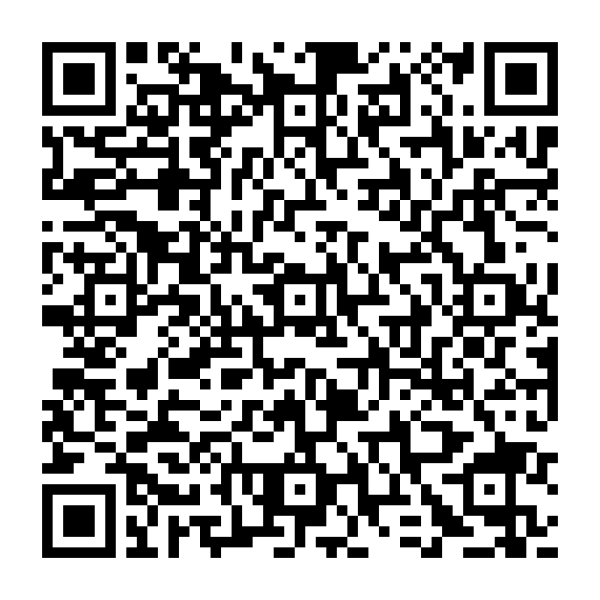
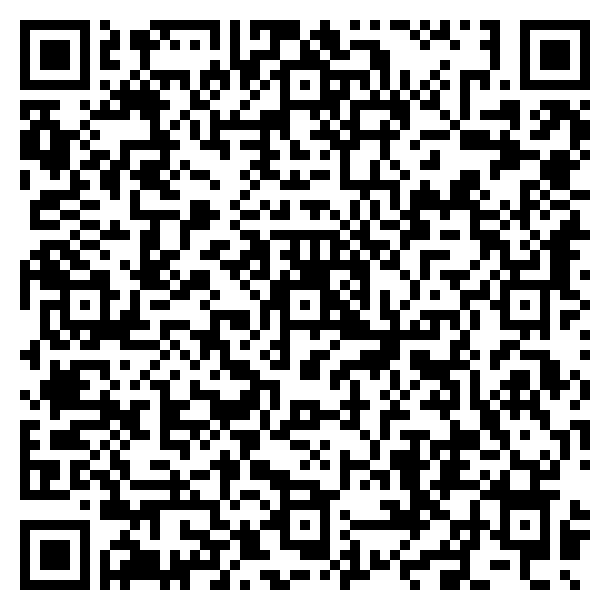
123

diff --git a/save/QR/createQR.js b/save/QR/createQR.js
@@ -1,64 +1,29 @@
-// npm i qrcode-generator
+// npm i qrcode
 const QRCode = require('qrcode');
-// npm i qrcode-generator
-const QRgenerator = require('qrcode-generator');
-// npm install qr-code-styling
-const QRCodeStyling = require("qr-code-styling");
-const sharp = require("sharp");
-const path = require('path');
-// QR 코드에 넣을 데이터
-// 전화번호 설정
-const phoneNumber = '01031277711';
-const telLink = 'tel:01031277711';
-// URL 
-const URL1 = 'https://nanonix.help?tn=1';
-const URL2 = 'https://nanonix.help?tn=2';
-// QR 코드 옵션 설정
-// 단순 생성
-// const qrCodeOptions = {
-//   errorCorrectionLevel: 'H',
-//   type: 'image/png',
-//   quality: 1,
-//   margin: 1,
-//   width: 500,
-//   color: {
-//     dark: '#000000FF',
-//     light: '#FFFFFFFF',
-//   },
-// };
 
-// // __dirname을 사용하여 현재 폴더에 QR 코드 파일 생성
-// const filePath = path.join(__dirname, "QR.png");
+// 1) QR에 담을 데이터
+const data = '101-ABCDEFGHIJKLMNOPQRSTUVWXYZ/2,'
++ "101-ABCDEFGHIJKLMNOPQRSTUVWXYZ/2,"
++ "101-ABCDEFGHIJKLMNOPQRSTUVWXYZ/2,"
++ "101-ABCDEFGHIJKLMNOPQRSTUVWXYZ/2,"
++ "101-ABCDEFGHIJKLMNOPQRSTUVWXYZ/2,"
++ "101-ABCDEFGHIJKLMNOPQRSTUVWXYZ/2,"
++ "101-ABCDEFGHIJKLMNOPQRSTUVWXYZ/2,"
++ "101-ABCDEFGHIJKLMNOPQRSTUVWXYZ/2,"
 
-// // URL1을 QR 코드 데이터로 사용하여 파일 생성
-// QRCode.toFile(filePath, URL1, qrCodeOptions, (err) => {
-//   if (err) {
-//     console.error('QR 코드 생성 중 오류가 발생했습니다:', err);
-//   } else {
-//     console.log('QR 코드가 성공적으로 생성되었습니다:', filePath);
-//   }
-// });
-// ==================================================================
-// ==================================================================
-// QR 코드 생성 (SVG 형식)
-// L > 
-let qrCode = QRgenerator(8, 'M'); // cellSize, 복원률, 낮을수록 도트가 크고 적은데이터가 들어감
-qrCode.addData(telLink);
-qrCode.make();
-let qrSvg = qrCode.createSvgTag({});
+// 2) 옵션 설정
+const options = {
+  errorCorrectionLevel: 'L',  // L | M | Q | H
+  version: 10,                 // 1~40 (작을수록 단순, 클수록 복잡)
+  margin: 2,                  // 테두리 빈 칸(module 개수 단위)
+  scale: 10                    // 각 모듈(정사각형) 픽셀 크기
+};
 
-// SVG를 PNG로 변환하고 너비 지정하여 파일로 저장
-const svgBuffer = Buffer.from(qrSvg);
-const outputPath = './QR.png'; // PNG 파일 이름
-const width = 600; // 원하는 이미지의 너비 (픽셀 단위)
-
-sharp(svgBuffer)
-  .png()
-  .resize(width) // 너비 지정, 높이는 자동 조정
-  .toFile(outputPath, (err, info) => {
-    if (err) {
-      console.error('QR 코드 생성 중 오류가 발생했습니다:', err);
-    } else {
-      console.log(`QR 코드가 ${width}px 너비로 PNG 형식으로 성공적으로 생성되었습니다.`, info);
-    }
+// 3) 파일로 바로 저장
+QRCode.toFile('QR.png', data, options)
+  .then(() => {
+    console.log('✅ QR.png 생성 완료');
+  })
+  .catch(err => {
+    console.error('❌ 생성 오류:', err);
   });

diff --git a/save/라즈베리파이/라즈베리파이.html b/save/라즈베리파이/라즈베리파이.html
@@ -3,36 +3,6 @@
 2023/05/03파일
 해당 경로로 이동해서 2.6GB짜리 다운로드
 
-<라즈베리파이 한국어 설정>
-    안하면 한국어들이 전부 □로 출력됨
-    sudo raspi-config
-    "5 Localisation Options" > "L1 Locale"
-    ko_KR.UTF-8 UTF-8을 선택하고, Ok를 누릅니다.
-    그 다음 그리고 설정할 기본 로캘로 ko_KR.UTF-8을 선택하고 다시 Ok를 누릅니다.
-    raspi-config를 종료
-
-    <기본 로캘 설정에 ko_KR.UTF-8이 없다면>
-    locale -a
-        여기에 ko_KR.UTF-8이 있는지 확인, 없다면
-    sudo nano /etc/locale.gen
-        입력하여 ko_KR.UTF-8이 주석처리 되어있나 확인하고
-        주석처리 되어있을시 주석해제
-    sudo locale-gen
-        한국-한국 선택
-    sudo update-locale LANG=ko_KR.UTF-8
-
-    글꼴 설치 -> 설치    한글해야 네모가 출력되지 않음
-    sudo apt-get install -y fonts-nanum*
-    
-    한글 입력기 설치
-    sudo apt-get install -y ibus ibus-hangul
-    ibus를 기본 입력방법으로 설정
-    im-config -n ibus
-    입력기에 한글 추가하기
-    ibus-setup => input Method => Add => Korean => hangul
-
-    sudo reboot
-
 <라즈베리파이에서 고정 IP로 접속하기>
     sudo nano /etc/dhcpcd.conf
     아래로 스크롤하면, 고정 IP 주소를 설정하는 부분이 있습니다.
@@ -60,42 +30,6 @@ git config --global user.name "SongHanSol"
     sudo apt install code
         설치가 다됬다면 터미널에 code 입력
 
-<node.js설치>
-    nodejs 홈페이지로 이동
-    <https://nodejs.org/ko/download>
-    
-    ARMv7이나 ARMv8을 잘 받아서 홈경로에 압축해제
-    압축이 해제된 디렉터리로 이동
-        cd node-v18.18.0-linux-arm64
-    디렉터리를 /usr/local에 복사
-        sudo cp -R * /usr/local/ <!-- 경로로 이동했을때만 -->
-        => sudo cp -R node-v20.19.0-linux-arm64/* /usr/local/ <!-- 홈경로에서(cd node-v18.18.0-linux-arm64를 안했을때)-->
-    버전확인
-        node -v
-    문제가 생긴다면 재부팅시
-        sudo reboot
-<nodejs 설치 - NVM으로>
-    sudo apt update && sudo apt upgrade -y
-    sudo apt install curl build-essential libssl-dev -y
-    curl -o- https://raw.githubusercontent.com/nvm-sh/nvm/v0.39.6/install.sh | bash
-    <!-- # bash 사용 시 -->
-        source ~/.bashrc
-    <!-- # zsh 사용 시 -->
-        source ~/.zshrc
-    command -v nvm
-    <!-- 출력으로 nvm이 나타나면 설치가 성공 -->
-    nvm install 20 --lts
-    <!-- default node버전 설정 -->
-    nvm alias default 20
-
-<nodejs 삭제방법>
-sudo apt remove --purge nodejs npm
-sudo rm -rf /usr/local/bin/node
-sudo rm -rf /usr/local/bin/npm
-sudo rm -rf /usr/local/lib/node_modules
-확인
-node -v
-npm -v
 <!--
 오래된 방법,
 sudo apt-get update

diff --git a/save/라즈베리파이/라즈베리파이 한국어 사용하기.html b/save/라즈베리파이/라즈베리파이 한국어 사용하기.html
@@ -1,0 +1,53 @@
+<라즈베리파이 한국어 설정 - Bookworm OS>
+    한글폰트 설치하기
+        sudo apt update
+        sudo apt install fonts-nanum fonts-noto-cjk -y
+    로케일 설정
+        sudo dpkg-reconfigure locales
+
+        이 명령을 실행하면 메뉴가 뜹니다. 여기서 다음처럼 진행하세요:
+        [ ] en_US.UTF-8 ← (기본 선택된 상태일 수도 있음)
+        [ ] ko_KR.UTF-8 ← 스페이스 바로 체크
+        완료 후 → ko_KR.UTF-8을 default locale로 선택하지 않아도 괜찮음 (영어 계속 사용해도 됨)
+
+        sudo reboot
+    한글 입력기 설치
+        sudo apt install ibus ibus-hangul -y
+        <!-- 삭제 : 
+            sudo apt remove --purge ibus ibus-hangul -y
+            rm -rf ~/.config/ibus
+            rm -f ~/.xprofile
+
+        -->
+        재부팅
+        ibus-setup
+        여기서 Hangul 입력기를 추가하고 활성화하면 Shift + Space로 한/영 전환이 가능해집니다.
+<라즈베리파이 한국어 설정 - Bullseye OS>
+    안하면 한국어들이 전부 □로 출력됨
+    sudo raspi-config
+    "5 Localisation Options" > "L1 Locale"
+    ko_KR.UTF-8 UTF-8을 선택하고, Ok를 누릅니다.
+    그 다음 그리고 설정할 기본 로캘로 ko_KR.UTF-8을 선택하고 다시 Ok를 누릅니다.
+    raspi-config를 종료
+
+    <기본 로캘 설정에 ko_KR.UTF-8이 없다면>
+    locale -a
+        여기에 ko_KR.UTF-8이 있는지 확인, 없다면
+    sudo nano /etc/locale.gen
+        입력하여 ko_KR.UTF-8이 주석처리 되어있나 확인하고
+        주석처리 되어있을시 주석해제
+    sudo locale-gen
+        한국-한국 선택
+    sudo update-locale LANG=ko_KR.UTF-8
+
+    글꼴 설치 -> 설치    한글해야 네모가 출력되지 않음
+    sudo apt-get install -y fonts-nanum*
+    
+    한글 입력기 설치
+    sudo apt-get install -y ibus ibus-hangul
+    ibus를 기본 입력방법으로 설정
+    im-config -n ibus
+    입력기에 한글 추가하기
+    ibus-setup => input Method => Add => Korean => hangul
+
+    sudo reboot

diff --git a/save/라즈베리파이/라즈베리파이 NVM 설치.html b/save/라즈베리파이/라즈베리파이 NVM 설치.html
@@ -1,0 +1,44 @@
+
+<node.js설치>
+    nodejs 홈페이지로 이동
+    <https://nodejs.org/ko/download>
+    
+    ARMv7이나 ARMv8을 잘 받아서 홈경로에 압축해제
+    압축이 해제된 디렉터리로 이동
+        cd node-v18.18.0-linux-arm64
+    디렉터리를 /usr/local에 복사
+        sudo cp -R * /usr/local/ <!-- 경로로 이동했을때만 -->
+        => sudo cp -R node-v20.19.0-linux-arm64/* /usr/local/ <!-- 홈경로에서(cd node-v18.18.0-linux-arm64를 안했을때)-->
+    버전확인
+        node -v
+    문제가 생긴다면 재부팅시
+        sudo reboot
+
+    <nodejs 삭제방법>
+        sudo apt remove --purge nodejs npm
+        sudo rm -rf /usr/local/bin/node
+        sudo rm -rf /usr/local/bin/npm
+        sudo rm -rf /usr/local/lib/node_modules
+        확인
+        node -v
+        npm -v
+<nodejs 설치 - NVM으로>
+    sudo apt update && sudo apt upgrade -y
+    sudo apt install curl build-essential libssl-dev -y
+    curl -o- https://raw.githubusercontent.com/nvm-sh/nvm/v0.39.6/install.sh | bash
+    curl -o- https://raw.githubusercontent.com/nvm-sh/nvm/v0.39.6/install.sh | bash
+
+    <!-- # bash 사용 시 -->
+        source ~/.bashrc
+    <!-- # zsh 사용 시 -->
+        source ~/.zshrc
+    command -v nvm
+    <!-- 출력으로 nvm이 나타나면 설치가 성공 -->
+    nvm install 20 --lts
+    <!-- default node버전 설정 -->
+    nvm alias default 20
+    <!-- 삭제 -->
+    nvm uninstall 20
+    <!-- 체크 -->
+    nvm ls
+    npm ls
